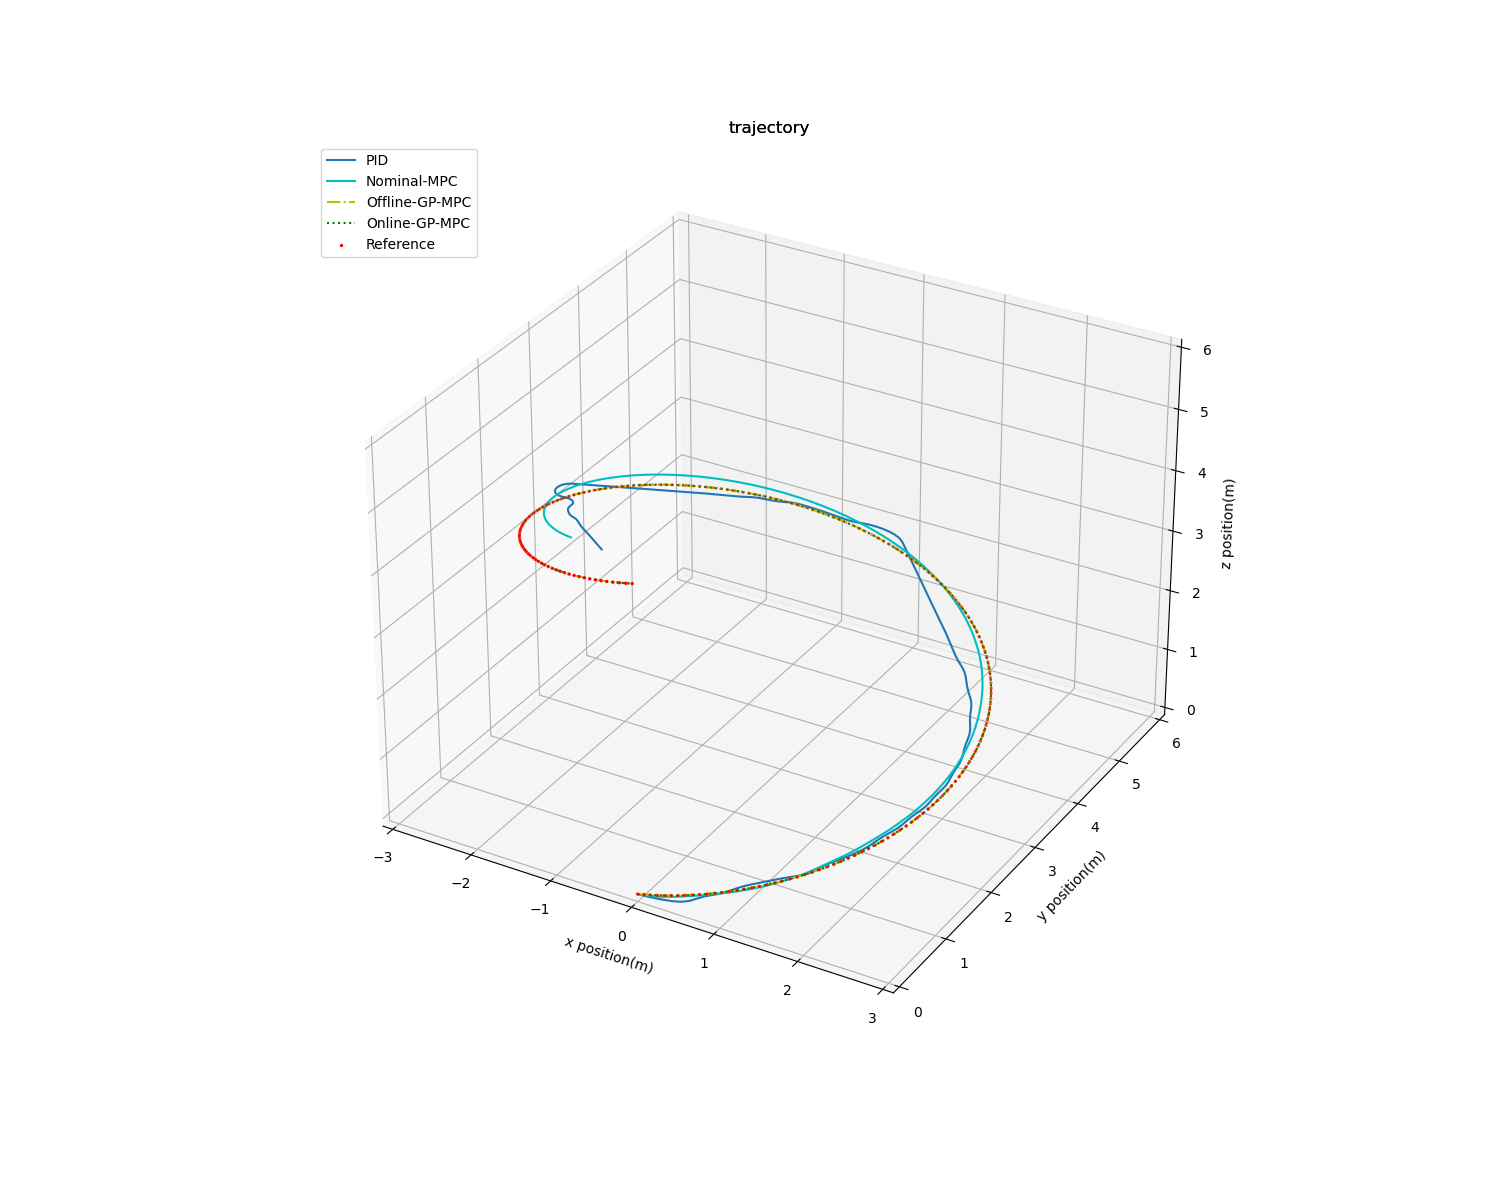
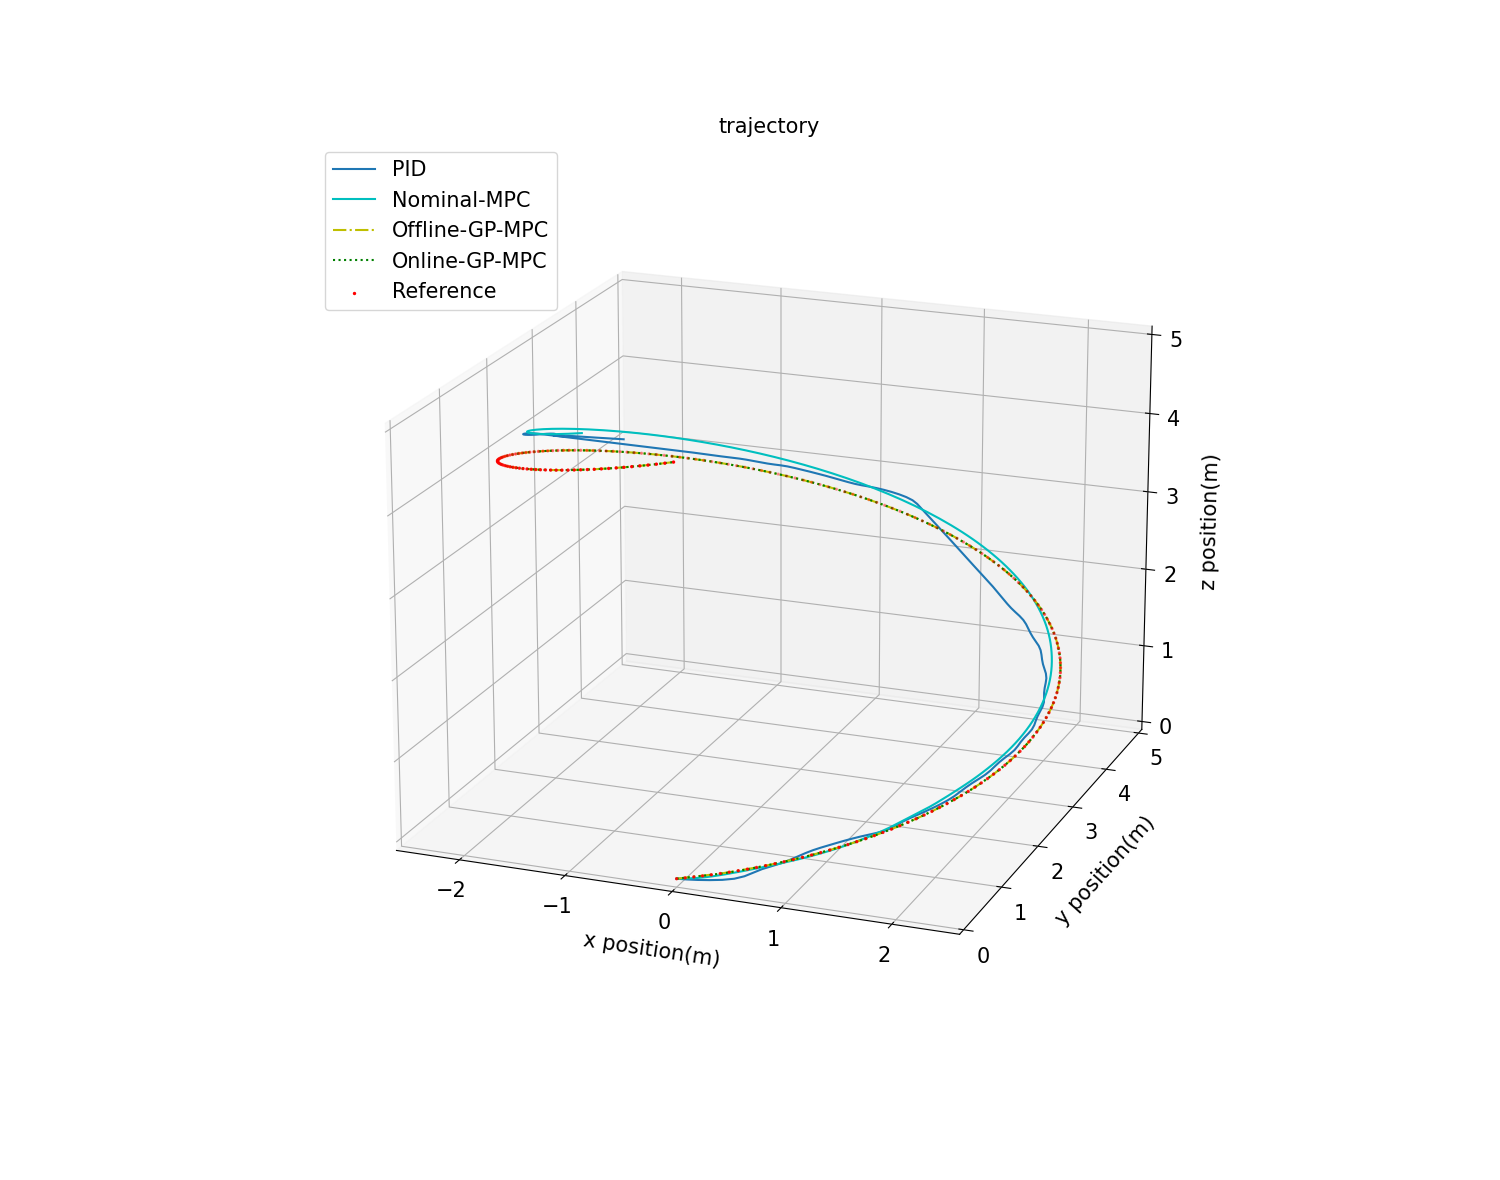
7.21

diff --git a/examples/figure_test_3.py b/examples/figure_test_3.py
@@ -4,13 +4,13 @@ import numpy as np
 # 导入数据
 # 拷贝用：data/lemniscate/Tv_dis_with_ero/   data/lemniscate/Tv_dis_No_ero/  data/lemniscate/No_dis_No_ero  data/lemniscate/Con_dis_No_ero  
 # data/L  data/circle/r=2/  data/circle/r=2.5/  data/circle/r=3/
-input_file = 'data/circle/r=2/'
+input_file = 'data/circle/r=3/'
 all_data_PID = io.loadmat(input_file + 'PID.mat')
 all_data_Nominal = io.loadmat(input_file + 'Nominal.mat')
 all_data_OFF = io.loadmat(input_file + 'Offline-GP.mat')
 all_data_ON = io.loadmat(input_file + 'Online-GP.mat')
 
-input_file_2 = 'data/height/No_dis/0.25/'
+input_file_2 = 'data/height/No_dis/0.75/'
 Z_data_PID = io.loadmat(input_file_2 + 'PID.mat')
 Z_data_Nominal = io.loadmat(input_file_2 + 'Nominal.mat')
 Z_data_OFF = io.loadmat(input_file_2 + 'Offline-GP.mat')
@@ -49,10 +49,11 @@ ax.plot3D(real_Nominal[:, 0], real_Nominal[:, 1], realZ_Nominal[:, 0], c='c', li
 ax.plot3D(real_OFF[:, 0], real_OFF[:, 1], realZ_OFF[:, 0], c='y', linestyle = '-.', label = 'Offline-GP-MPC')
 ax.plot3D(real_ON[:, 0], real_ON[:, 1], realZ_ON[:, 0], c='g', linestyle = ':', label = 'Online-GP-MPC')
 ax.scatter3D(state_all_ref[:, 0], state_all_ref[:, 1], Z_ref[:, 0],s= 2, c='r', label = 'Reference')
-ax.set(xlim=[-2, 2], ylim=[0, 4], zlim=[0, 2.5])
-ax.set_xlabel("x position(m)", fontsize=fontsize)
-ax.set_ylabel("y position(m)", fontsize=fontsize)
-ax.set_zlabel("z position(m)", fontsize=fontsize)
+ax.set(xlim=[-3, 3], ylim=[0, 6], zlim=[0, 7.5])
+ax.tick_params(labelsize=fontsize)
+ax.set_xlabel("x position(m)", fontsize=fontsize, labelpad=10)
+ax.set_ylabel("y position(m)", fontsize=fontsize, labelpad=10)
+ax.set_zlabel("z position(m)", fontsize=fontsize, labelpad=10)
 ax.set_title("trajectory", fontsize=fontsize)
 ax.view_init(elev=19, azim=-69)
 plt.legend(loc='upper left', fontsize=fontsize)#绘制曲线图例，信息来自类型label
